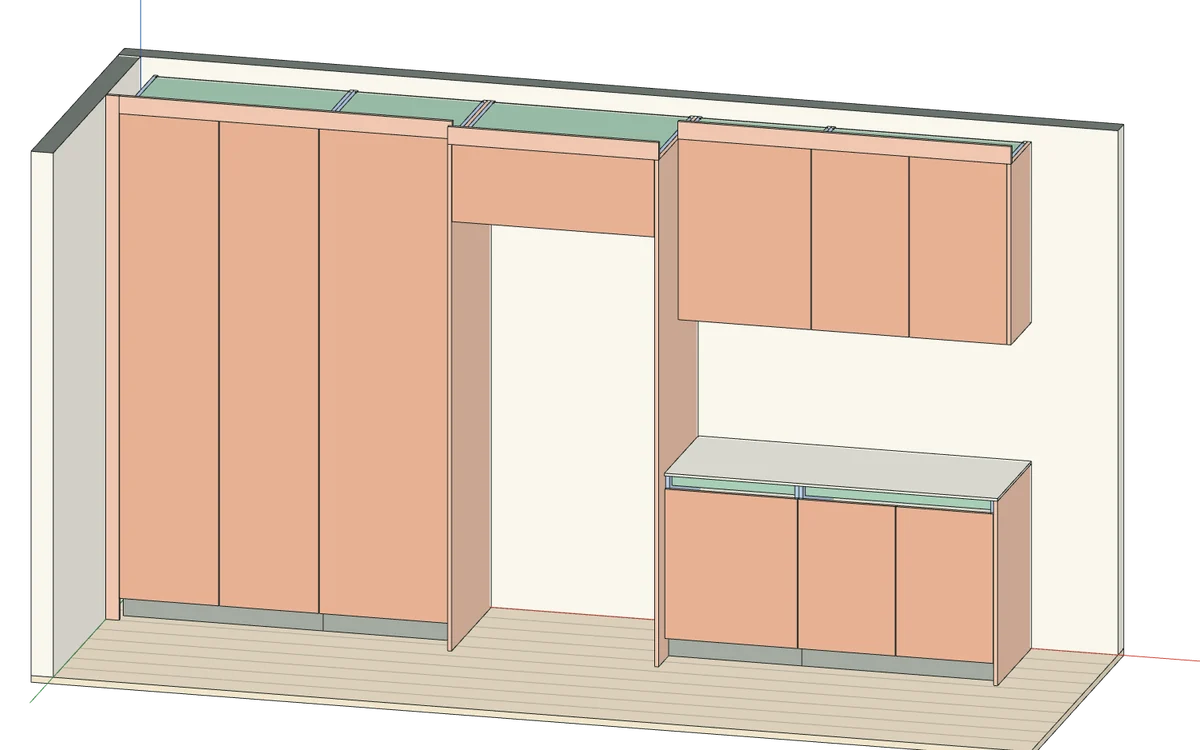
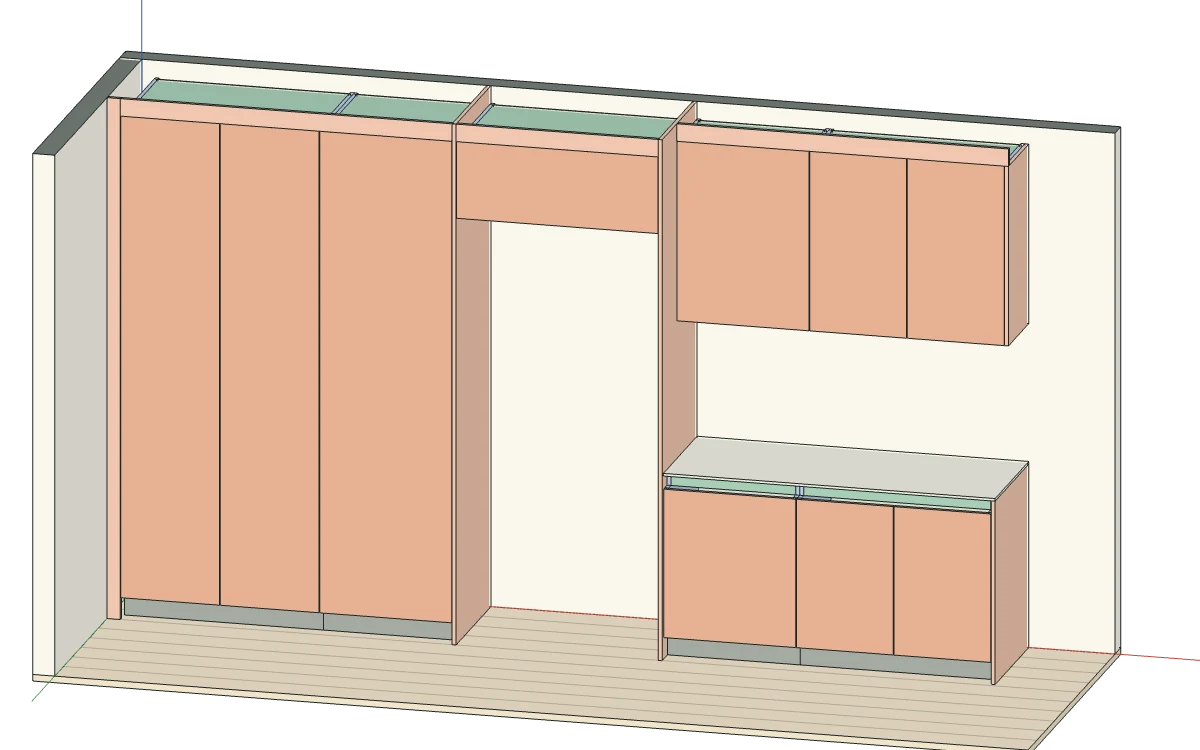
[💄 improve] 가구 모델 목찬넬 가공과 냉장고장 윗단 EP 정렬
- 하부장 측판 앞 윗모서리에 목찬넬(60 × 40)을 따내 설계·조립 단계에 반영
- 제조 단계 스키퍼에 Ø12 라우터를 더해 목찬넬을 따내는 공정과 범례 추가
- 냉장고장 깊이를 600으로 맞춰 붙박이장과 윗단 EP 라인 정렬
- 냉장고장 양쪽 EP를 천장까지 올리고 윗단 EP를 그 사이에 배치
- 가구 정지 이미지 3장 재생성

Changed region(s): [[0.0, 0.0613, 1.0, 1.0]]

diff --git a/src/app/components/model-viewport/viewport-scene.ts b/src/app/components/model-viewport/viewport-scene.ts
@@ -10,6 +10,7 @@ import {
   DynamicDrawUsage,
   EdgesGeometry,
   Euler,
+  ExtrudeGeometry,
   Float32BufferAttribute,
   Group,
   HemisphereLight,
@@ -27,6 +28,7 @@ import {
   OrthographicCamera,
   Quaternion,
   Scene,
+  Shape,
   ShapeUtils,
   SphereGeometry,
   TetrahedronGeometry,
@@ -1452,19 +1454,21 @@ interface ModuleSpec {
   shelves: number;
   // Wardrobe: a board this far above the carcass bottom with a hanging rail under it.
   divider?: number;
-  // Door-material end panels inside the body width; `down` stretches them to the floor.
-  ends?: { left?: boolean; right?: boolean; down?: number };
+  // Door-material end panels inside the body width; `down` stretches them to the floor and
+  // `up` to the ceiling.
+  ends?: { left?: boolean; right?: boolean; down?: number; up?: number };
 }
 
 // One wall of a studio: wardrobe, the fridge slot under a flap cabinet framed by end panels,
-// then the kitchen run. Depths follow the builder demo (wardrobe 600, fridge cabinet 680,
-// base 580, upper 350); a 60 mm filler meets the left wall.
+// then the kitchen run. Depths: wardrobe 600, fridge cabinet 600 (the builder demo's 680 cut
+// back so its top and end panels line up with the wardrobe's; the fridge stands proud),
+// base 580, upper 350; a 60 mm filler meets the left wall.
 const ROOM = { h: 2380, left: 0, right: 4400, front: 1500, wall: 100 };
 const FILLER = 60;
 const MODULES: ModuleSpec[] = [
   { name: '붙박이장 900', kind: 'tall', x: 60, y: 0, w: 900, h: 2300, d: 600, doors: 2, shelves: 0, divider: 1700 },
   { name: '붙박이장 600', kind: 'tall', x: 960, y: 0, w: 600, h: 2300, d: 600, doors: 1, shelves: 4 },
-  { name: '냉장고장', kind: 'flap', x: 1560, y: 1950, w: 950, h: 350, d: 680, doors: 1, shelves: 0, ends: { left: true, right: true, down: 1950 } },
+  { name: '냉장고장', kind: 'flap', x: 1560, y: 1950, w: 950, h: 350, d: 600, doors: 1, shelves: 0, ends: { left: true, right: true, down: 1950, up: 80 } },
   { name: '하부장 600', kind: 'base', x: 2510, y: 0, w: 600, h: 850, d: 580, doors: 1, shelves: 1 },
   { name: '하부장 900', kind: 'base', x: 3110, y: 0, w: 900, h: 850, d: 580, doors: 2, shelves: 1, ends: { right: true } },
   { name: '상부장 600', kind: 'upper', x: 2510, y: 1500, w: 600, h: 800, d: 350, doors: 1, shelves: 2 },
@@ -1481,6 +1485,27 @@ interface Piece {
   s: Slab;
   // Doors: the hinge edge (-1 left, 1 right, 0 top for a lift-up flap).
   hinge?: number;
+  // Base sides: the handle channel cut out of the front top corner, [height, depth].
+  notch?: [number, number];
+}
+
+// Handle channel of the base preset: 60 high and 40 deep under the worktop.
+const CHANNEL = { h: 60, d: 40 };
+
+// A board centred at the origin with its +x, +y corner cut away nx by ny through the
+// thickness, which runs along z.
+function notchedBoard(a: number, b: number, t: number, nx: number, ny: number): BufferGeometry {
+  const s = new Shape();
+  s.moveTo(-a / 2, -b / 2);
+  s.lineTo(a / 2, -b / 2);
+  s.lineTo(a / 2, b / 2 - ny);
+  s.lineTo(a / 2 - nx, b / 2 - ny);
+  s.lineTo(a / 2 - nx, b / 2);
+  s.lineTo(-a / 2, b / 2);
+  s.closePath();
+  const g = new ExtrudeGeometry(s, { depth: t, bevelEnabled: false, curveSegments: 1 });
+  g.translate(0, 0, -t / 2);
+  return g;
 }
 
 // Panels of one module in its own frame: x across from its left edge, y up from its bottom,
@@ -1488,7 +1513,10 @@ interface Piece {
 function modulePieces(m: ModuleSpec): Piece[] {
   const { t } = FB;
   const out: Piece[] = [];
-  const add = (role: PieceRole, part: Piece['part'], s: Slab, hinge?: number) => out.push({ role, part, s, hinge });
+  const add = (role: PieceRole, part: Piece['part'], s: Slab, hinge?: number) => {
+    out.push({ role, part, s, hinge });
+    return out[out.length - 1];
+  };
   const floor = m.kind === 'tall' || m.kind === 'base';
   const y0 = floor ? FB.plinth : 0;
   const y1 = m.kind === 'base' ? m.h - FB.worktop : m.h;
@@ -1496,11 +1524,15 @@ function modulePieces(m: ModuleSpec): Piece[] {
   const x0 = m.ends?.left ? t : 0;
   const x1 = m.w - (m.ends?.right ? t : 0);
   const endY0 = (m.kind === 'upper' ? -20 : 0) - (m.ends?.down ?? 0);
-  if (m.ends?.left) add('trim', 'end', box(0, t, endY0, y1, 0, m.d));
-  if (m.ends?.right) add('trim', 'end', box(m.w - t, m.w, endY0, y1, 0, m.d));
-  // Sides run the full carcass height; the boards sit between them.
-  add('side', 'side', box(x0, x0 + t, y0, y1, 0, cd));
-  add('side', 'side', box(x1 - t, x1, y0, y1, 0, cd));
+  const endY1 = y1 + (m.ends?.up ?? 0);
+  if (m.ends?.left) add('trim', 'end', box(0, t, endY0, endY1, 0, m.d));
+  if (m.ends?.right) add('trim', 'end', box(m.w - t, m.w, endY0, endY1, 0, m.d));
+  // Sides run the full carcass height; the boards sit between them. Base sides have the
+  // handle channel cut out of their front top corner.
+  for (const sx of [x0, x1 - t]) {
+    const side = add('side', 'side', box(sx, sx + t, y0, y1, 0, cd));
+    if (m.kind === 'base') side.notch = [CHANNEL.h, CHANNEL.d];
+  }
   const ix0 = x0 + t;
   const ix1 = x1 - t;
   add('board', 'bottom', box(ix0, ix1, y0, y0 + t, BOARD_Z, cd));
@@ -1508,7 +1540,7 @@ function modulePieces(m: ModuleSpec): Piece[] {
     // Base preset: rails instead of a top board, and a handle channel 40 deep and 60 high.
     add('board', 'rail', box(ix0, ix1, y1 - t, y1, BOARD_Z, BOARD_Z + 80));
     add('board', 'rail', box(ix0, ix1, y1 - t, y1, cd - 120, cd - 40));
-    add('board', 'rail', box(ix0, ix1, y1 - 60, y1 - t, cd - 40 - t, cd - 40));
+    add('board', 'rail', box(ix0, ix1, y1 - CHANNEL.h, y1 - t, cd - CHANNEL.d - t, cd - CHANNEL.d));
   } else {
     add('board', 'top', box(ix0, ix1, y1 - t, y1, BOARD_Z, cd));
   }
@@ -1531,7 +1563,7 @@ function modulePieces(m: ModuleSpec): Piece[] {
   }
   // Doors cover the carcass with 3 mm between leaves; upper doors hang 20 mm below as a pull.
   const dy0 = m.kind === 'upper' ? -20 : y0;
-  const dy1 = m.kind === 'base' ? y1 - 60 : y1;
+  const dy1 = m.kind === 'base' ? y1 - CHANNEL.h : y1;
   const leaf = (x1 - x0 - 3 * m.doors) / m.doors;
   for (let i = 0; i < m.doors; i++) {
     const a = x0 + 1.5 + i * (leaf + 3);
@@ -1574,6 +1606,14 @@ function buildModule(m: ModuleSpec, mats: Record<PieceRole, Material>, edge: Lin
       pivot.add(leafMesh);
       doors.push({ pivot, hinge: piece.hinge ?? -1 });
       obj = pivot;
+    } else if (piece.notch) {
+      // Depth along the shape's x, height along its y, thickness turned onto x.
+      const { size, at } = piece.s;
+      const geo = notchedBoard(size.z, size.y, size.x, piece.notch[1], piece.notch[0]);
+      geo.rotateY(-Math.PI / 2);
+      obj = new Mesh(geo, mats[piece.role]);
+      obj.add(edgesOf(geo, edge));
+      obj.position.copy(at);
     } else {
       obj = slab(mats[piece.role], edge, piece.s);
     }
@@ -1628,10 +1668,11 @@ function wallExtras() {
   const bx1 = Math.max(...base.map((m) => m.x + m.w));
   return {
     worktop: box(bx0, bx1, 850 - FB.worktop, 850, 0, 580),
-    // Top surround up to the ceiling over the tall units, the fridge cabinet and the uppers.
+    // Top surround up to the ceiling over the tall units, the uppers and, between its end
+    // panels, the fridge cabinet.
     surround: [
       box(FILLER, 1560, 2300, ROOM.h, 600 - t, 600),
-      box(1560, 2510, 2300, ROOM.h, 680 - t, 680),
+      box(1560 + t, 2510 - t, 2300, ROOM.h, 600 - t, 600),
       box(2510, 4010, 2300, ROOM.h, 350 - t, 350),
     ],
     filler: box(0, FILLER, 0, ROOM.h, 600 - t, 600),
@@ -1748,12 +1789,12 @@ function buildDesign(edge: LineBasicMaterial, reducedMotion: boolean): Furniture
     return { whole, halves, split, at: r.at, widths, marks };
   });
   // The fridge slot is an empty place in the run, with the flap cabinet over it.
-  const slotGeo = new EdgesGeometry(new BoxGeometry(950, 1950, 680));
+  const slotGeo = new EdgesGeometry(new BoxGeometry(950, 1950, 600));
   const slot = new LineSegments(slotGeo, new LineDashedMaterial({ color: BLUE, dashSize: 60, gapSize: 40 }));
   slot.computeLineDistances();
-  slot.position.set(1560 + 475, 975, 340);
+  slot.position.set(1560 + 475, 975, 300);
   group.add(slot);
-  const flapBox = ghost(box(1560, 2510, 1950, 2300, 0, 680));
+  const flapBox = ghost(box(1560, 2510, 1950, 2300, 0, 600));
   const slotAt: [number, number] = [3.0, 3.8];
 
   const mats = roleMats();
@@ -1818,7 +1859,7 @@ function buildDesign(edge: LineBasicMaterial, reducedMotion: boolean): Furniture
     labels() {
       const r = runs.find((x) => t >= x.at[1] && t < x.at[2] + 0.6);
       if (r) return r.marks.map((anchor, i) => ({ anchor, owner: group, text: String(r.widths[i]) }));
-      if (t >= slotAt[0] && t < slotAt[1] + 0.6) return [{ anchor: new Vector3(2035, 2380, 680), owner: group, text: '950' }];
+      if (t >= slotAt[0] && t < slotAt[1] + 0.6) return [{ anchor: new Vector3(2035, 2380, 600), owner: group, text: '950' }];
       return [];
     },
   };
@@ -1856,7 +1897,7 @@ const HOLE_DRAW = 2.5;
 // 0 at mid-height; z along the depth): connector through holes for the bottom board (three,
 // 80 mm in and at most 300 apart) and the rails; shelf pins Ø3 in two columns 50 mm in from
 // the shelf edges; hinge-plate pilots Ø3, 37 mm in, 32 apart; the back groove 4 wide,
-// 18–22 mm from the rear edge.
+// 18–22 mm from the rear edge; the handle channel cut out of the front top corner.
 function sideMachining() {
   const m = MODULES[BUILT];
   const y0 = FB.plinth;
@@ -1880,7 +1921,8 @@ function sideMachining() {
   );
   // Through-feed: the panel runs in +x, so holes nearer the leading end come first.
   const holes = [...through, ...pins, ...pilots].sort((a, b) => b.u - a.u || a.z - b.z);
-  return { holes, groove: z(FB.backInset + FB.groove / 2) };
+  const notch = { u0: u(y1 - CHANNEL.h), u1: u(y1), z0: z(cd - CHANNEL.d), z1: z(cd) };
+  return { holes, groove: z(FB.backInset + FB.groove / 2), notch };
 }
 const SIDE_MACHINING = sideMachining();
 
@@ -1889,13 +1931,26 @@ function sidePanel(edge: LineBasicMaterial) {
   const group = new Group();
   const bodyMat = tinted(tint(TINTS.side, 1));
   bodyMat.transparent = true;
-  const body = slab(bodyMat, edge, box(-SIDE.l / 2, SIDE.l / 2, 0, SIDE.t, -SIDE.d / 2, SIDE.d / 2));
+  // The body is drawn notched; the channel's offcut stays on it until the skipper cuts it.
+  const { notch } = SIDE_MACHINING;
+  const bodyGeo = notchedBoard(SIDE.l, SIDE.d, SIDE.t, notch.u1 - notch.u0, notch.z1 - notch.z0);
+  bodyGeo.rotateX(Math.PI / 2);
+  bodyGeo.translate(0, SIDE.t / 2, 0);
+  const body = new Mesh(bodyGeo, bodyMat);
+  body.add(edgesOf(bodyGeo, edge));
   group.add(body);
+  const offcut = new Group();
+  offcut.add(slab(bodyMat, edge, box(notch.u0, notch.u1, 0, SIDE.t, notch.z0, notch.z1)));
+  const bandMat = tinted(ACCENT);
+  // Its piece of the front tape, shown once the rest of the front edge is cut short.
+  const offcutBand = slab(bandMat, edge, box(notch.u0, notch.u1, -0.5, SIDE.t + 0.5, notch.z1, notch.z1 + 4));
+  offcutBand.visible = false;
+  offcut.add(offcutBand);
+  group.add(offcut);
   const label = new Group();
   label.add(slab(faceMaterial(), edge, box(-50, 50, SIDE.t, SIDE.t + 1, -25, 25)));
   label.add(slab(tinted(DRILLED), edge, box(-44, -22, SIDE.t + 1, SIDE.t + 1.5, -11, 11)));
   group.add(label);
-  const bandMat = tinted(ACCENT);
   // Front, rear and bottom edges get 0.8 mm tape (drawn 4 mm); the worktop covers the top.
   const bands = {
     front: new Mesh(UNIT, bandMat),
@@ -1926,6 +1981,8 @@ function sidePanel(edge: LineBasicMaterial) {
     group,
     bodyMat,
     holes,
+    offcut,
+    offcutBand,
     // Tape along one edge from `from` to `to` in that edge's own coordinate.
     setBand(edgeName: 'front' | 'rear' | 'bottom', from: number, to: number) {
       const b = bands[edgeName];
@@ -2130,6 +2187,15 @@ function buildFactory(edge: LineBasicMaterial, reducedMotion: boolean): Furnitur
   drill.add(cylinderY(24, 60, 150, 0xa8ada5, edge, 20));
   const bit = cylinderY(4, 0, 60, 0x8c928a, edge, 12);
   drill.add(bit);
+  // A Ø12 router spindle beside the drills on the top unit, for the handle channel.
+  const routerOff = 190;
+  const routerR = 6;
+  head.add(metalBox(0xd6d9d2, edge, box(routerOff - 50, routerOff + 50, 200, 330, -50, 50)));
+  const router = new Group();
+  router.position.x = routerOff;
+  head.add(router);
+  router.add(cylinderY(26, 70, 200, 0xa8ada5, edge, 20));
+  router.add(cylinderY(routerR, 0, 70, 0x8c928a, edge, 12));
   // Bottom unit under the rollers, drilling upwards, and its router for the groove.
   const under = new Group();
   bore.add(under);
@@ -2150,26 +2216,46 @@ function buildFactory(edge: LineBasicMaterial, reducedMotion: boolean): Furnitur
   BAND_PASSES.forEach((p) => bored.setBand(p.edge, -p.half, p.half));
   for (const z of [-150, 150]) bored.group.add(metalBox(DRILLED, edge, box(-SIDE.l / 2 - 70, -SIDE.l / 2, 0, 60, z - 50, z + 50)));
 
-  // Through-feed keys: the panel stops for each hole; the router cuts on the way.
-  const keys: { t: number; px: number; hz: number; hole: number; target: number }[] = [];
+  // Through-feed keys: the leading end comes in under the top router, which plunges through
+  // and cuts the channel's two inner edges; then the panel stops for each hole, and the
+  // bottom router cuts the groove on the way out. `down` is the router's plunge (0–1).
+  type Key = { t: number; px: number; hz: number; hole: number; target: number; down: number };
+  const keys: Key[] = [];
   let clock = 0.3;
   let px = -SIDE.l / 2 - 700;
   let hz = 0;
   const holes = SIDE_MACHINING.holes;
-  keys.push({ t: clock, px, hz, hole: -1, target: 0 });
+  const { notch } = SIDE_MACHINING;
+  keys.push({ t: clock, px, hz, hole: -1, target: -1, down: 0 });
+  // Tool centre one radius inside the offcut, starting off the front edge.
+  const notchPath: [number, number, number, number][] = [
+    [notch.u0 + routerR, notch.z1 + 30, 0, 0],
+    [notch.u0 + routerR, notch.z1 + 30, 1, 0.25],
+    [notch.u0 + routerR, notch.z0 + routerR, 1, 0.7],
+    [notch.u1 + 30, notch.z0 + routerR, 1, 0.7],
+    [notch.u1 + 30, notch.z0 + routerR, 0, 0.25],
+  ];
+  notchPath.forEach(([u, z, down, dur], i) => {
+    const npx = routerOff - u;
+    clock += i === 0 ? Math.max(Math.abs(npx - px) / 2200, Math.abs(z - hz) / 2600) : dur;
+    px = npx;
+    hz = z;
+    keys.push({ t: clock, px, hz, hole: -1, target: -1, down });
+  });
+  const notchEnd = clock;
   holes.forEach((h, i) => {
     clock += Math.max(Math.abs(-h.u - px) / 2200, Math.abs(h.z - hz) / 2600, 0.12);
     px = -h.u;
     hz = h.z;
-    keys.push({ t: clock, px, hz, hole: -1, target: i });
+    keys.push({ t: clock, px, hz, hole: -1, target: i, down: 0 });
     clock += 0.14;
-    keys.push({ t: clock, px, hz, hole: i, target: i });
+    keys.push({ t: clock, px, hz, hole: i, target: i, down: 0 });
   });
   const drilledAt = keys.filter((k) => k.hole >= 0).map((k) => k.t - 0.07);
   const holesEnd = clock;
   clock += (620 - px) / 1500;
   px = 620;
-  keys.push({ t: clock, px, hz: 0, hole: -1, target: holes.length - 1 });
+  keys.push({ t: clock, px, hz: 0, hole: -1, target: holes.length - 1, down: 0 });
   const flipAt = clock + 0.3;
   const boreLen = flipAt + 1.2;
 
@@ -2249,11 +2335,23 @@ function buildFactory(edge: LineBasicMaterial, reducedMotion: boolean): Furnitur
     const b = keys[ki < 0 ? keys.length - 1 : ki];
     const kk = b.t > a.t ? ease(clamp01((st - a.t) / (b.t - a.t))) : 1;
     const bpx = a.px + (b.px - a.px) * kk;
-    bored.group.position.x = bpx;
-    const target = holes[b.target];
-    const hz2 = a.hz + (b.hz - a.hz) * kk;
-    head.position.z = target.face === 'top' ? hz2 : head.position.z;
-    under.position.z = target.face === 'bottom' ? hz2 : under.position.z;
+    // While routing the panel and head move together at a steady feed.
+    const lin = b.t > a.t ? clamp01((st - a.t) / (b.t - a.t)) : 1;
+    const routing = b.target < 0 && a.down > 0 && b.down > 0;
+    const mk = routing ? lin : kk;
+    bored.group.position.x = a.px + (b.px - a.px) * mk;
+    const target = holes[Math.max(b.target, 0)];
+    const hz2 = a.hz + (b.hz - a.hz) * mk;
+    head.position.z = b.target < 0 || target.face === 'top' ? hz2 : head.position.z;
+    under.position.z = b.target >= 0 && target.face === 'bottom' ? hz2 : under.position.z;
+    // The bit runs 3 mm through the panel; it sits 60 above it when up.
+    router.position.y = 60 - 63 * (a.down + (b.down - a.down) * kk);
+    // The offcut drops once both edges are cut.
+    const drop = ease(span(st, notchEnd - 0.2, notchEnd + 0.3));
+    bored.offcut.visible = st < notchEnd + 0.3;
+    bored.offcut.position.y = -220 * drop;
+    bored.setBand('front', -SIDE.l / 2, st >= notchEnd - 0.2 ? notch.u0 : SIDE.l / 2);
+    bored.offcutBand.visible = st >= notchEnd - 0.2;
     const dip = b.hole >= 0 ? Math.sin(Math.PI * clamp01((st - a.t) / (b.t - a.t))) : 0;
     // Through holes are drilled from each face to half the thickness plus 3 mm.
     drill.position.y = target.face === 'top' ? 70 - 64 * dip : 70;
@@ -2278,8 +2376,9 @@ function buildFactory(edge: LineBasicMaterial, reducedMotion: boolean): Furnitur
     if (t < bandAt + 0.35) return 0;
     if (t < boreAt + 0.35) return 1;
     const st = t - boreAt - 0.7;
-    if (st < holesEnd) return 2;
-    return st < flipAt ? 3 : 4;
+    if (st < notchEnd + 0.1) return 2;
+    if (st < holesEnd) return 3;
+    return st < flipAt ? 4 : 5;
   };
 
   return {
@@ -2325,14 +2424,15 @@ function buildFactory(edge: LineBasicMaterial, reducedMotion: boolean): Furnitur
         return t < pickAt ? '01 네스팅 · 라벨 100 × 50' : '01 네스팅 · 하부장 측판 꺼내기';
       }
       if (s === 1) return `02 엣지밴딩 · ${BAND_PASSES[pass].label} 모서리 ${pass + 1}/3`;
-      if (s === 2) {
+      if (s === 2) return '03 스키퍼 라우터 · 목찬넬 60 × 40 따내기';
+      if (s === 3) {
         const st = t - boreAt - 0.7;
         const i = drilledAt.findIndex((d) => d > st);
         const h = holes[i < 0 ? holes.length - 1 : i];
-        if (h.face === 'top') return '03 스키퍼 윗면 · 연결 피스 Ø6';
-        return Math.abs(h.z - (SIDE.d / 2 - 37)) < 30 ? '03 스키퍼 아랫면 · 경첩 자리 Ø3' : '03 스키퍼 아랫면 · 선반핀 Ø3';
+        if (h.face === 'top') return '04 스키퍼 윗면 · 연결 피스 Ø6';
+        return Math.abs(h.z - (SIDE.d / 2 - 37)) < 30 ? '04 스키퍼 아랫면 · 경첩 자리 Ø3' : '04 스키퍼 아랫면 · 선반핀 Ø3';
       }
-      if (s === 3) return '04 아랫면 라우터 · 뒷판 홈 4×7';
+      if (s === 4) return '05 아랫면 라우터 · 뒷판 홈 4×7';
       return '가공 완료 · 측판 안쪽 면';
     },
     done: () => !reducedMotion && t >= end,

diff --git a/src/app/components/model-viewport/viewport-data.ts b/src/app/components/model-viewport/viewport-data.ts
@@ -133,10 +133,11 @@ export const VIEW_MODELS: ViewModel[] = [
       {
         label: '제조',
         title: '공장에서 패널을 가공합니다',
-        text: '엔진이 배치한 대로 몸통재 판재에서 패널을 오려 내고, 하부장 측판에 엣지를 붙인 뒤 스키퍼로 구멍과 뒷판 홈을 냅니다.',
+        text: '엔진이 배치한 대로 몸통재 판재에서 패널을 오려 내고, 하부장 측판에 엣지를 붙인 뒤 스키퍼로 목찬넬 자리를 따내고 구멍과 뒷판 홈을 냅니다.',
         legend: [
           { label: '네스팅', detail: '몸통재 18T · 11장', swatch: TINTS.sheet },
           { label: '엣지밴딩', detail: '측판 3면 · 0.8 mm', swatch: TINTS.cut },
+          { label: '목찬넬 따내기', detail: '스키퍼 라우터 · 60 × 40', swatch: TINTS.side },
           { label: '스키퍼 보링', detail: '연결 피스 Ø6 · 선반핀 Ø3', swatch: TINTS.drilled },
           { label: '뒷판 홈', detail: '아랫면 라우터 · 4 × 7', swatch: '#59605a' },
         ],
